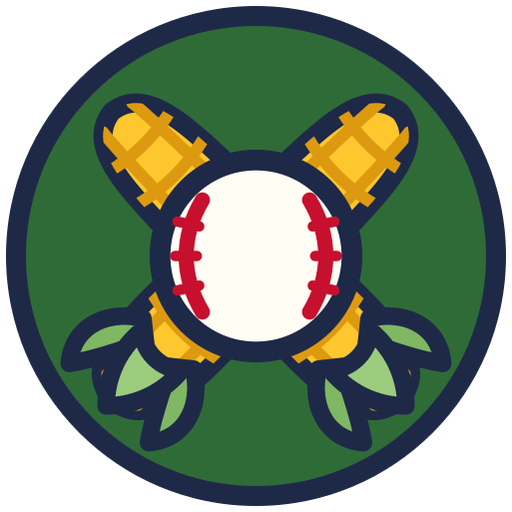
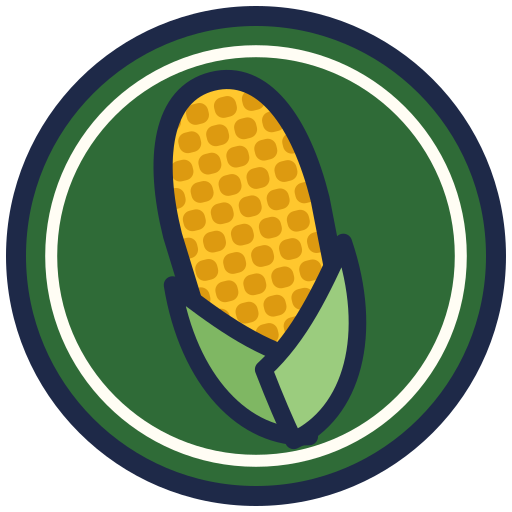
Replace the baseball crest with a sport-agnostic corn mark
The app icon was two corn cobs crossed like bats behind a baseball, which
reads as a baseball app on every home screen even now that teams can be
basketball. Redraw public/favicon.svg as a single ear of corn on the same
field-green disc (keeping the Cornelius pun, dropping the ball and bats),
and re-rasterise every derived icon from it: icon-192, icon-512, the
maskable 512, apple-icon and favicon.ico.

Claude-Session: https://claude.ai/code/session_018dh7CszWPW4mZHLTKHJGGt

diff --git a/src/app/manifest.ts b/src/app/manifest.ts
@@ -18,13 +18,16 @@ import { APP_NAME, APP_SHORT_NAME } from "@/lib/app-name";
 /// conversion and compares, so changing either token there fails the suite here
 /// until this file follows.
 ///
-/// The icons were rasterised once from `public/favicon.svg` (the team crest) at
+/// The icons were rasterised once from `public/favicon.svg` (the app crest, an
+/// ear of corn — deliberately sport-agnostic, since one install serves every
+/// team the app runs, baseball or not) at
 /// authoring time rather than generated at build time, so there is no image
 /// toolchain in the build. To redo them after a crest change, render that file
 /// with any SVG rasteriser at 192 and 512 square with transparent corners, plus
 /// a 512 square with the crest inset to 80% on a `#FAF4E5` ground for the
 /// maskable entry, and a 180 square inset to 86% on the same ground for
-/// `src/app/apple-icon.png`.
+/// `src/app/apple-icon.png`. `src/app/favicon.ico` is the same file at 16, 32
+/// and 48 square, packed into one ICO.
 export default function manifest(): MetadataRoute.Manifest {
   return {
     // `id` pins the app's identity independently of `start_url`, so a future
